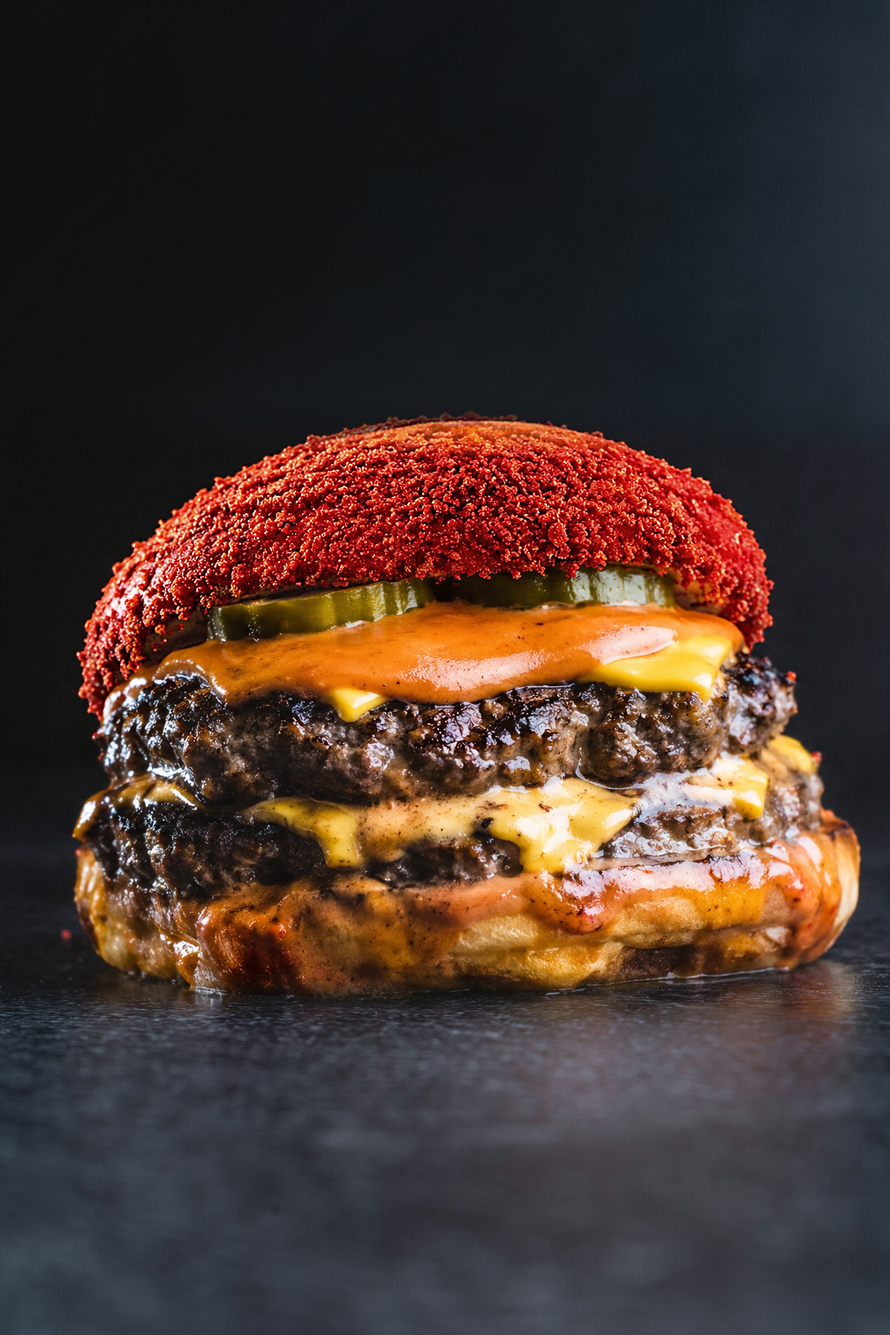
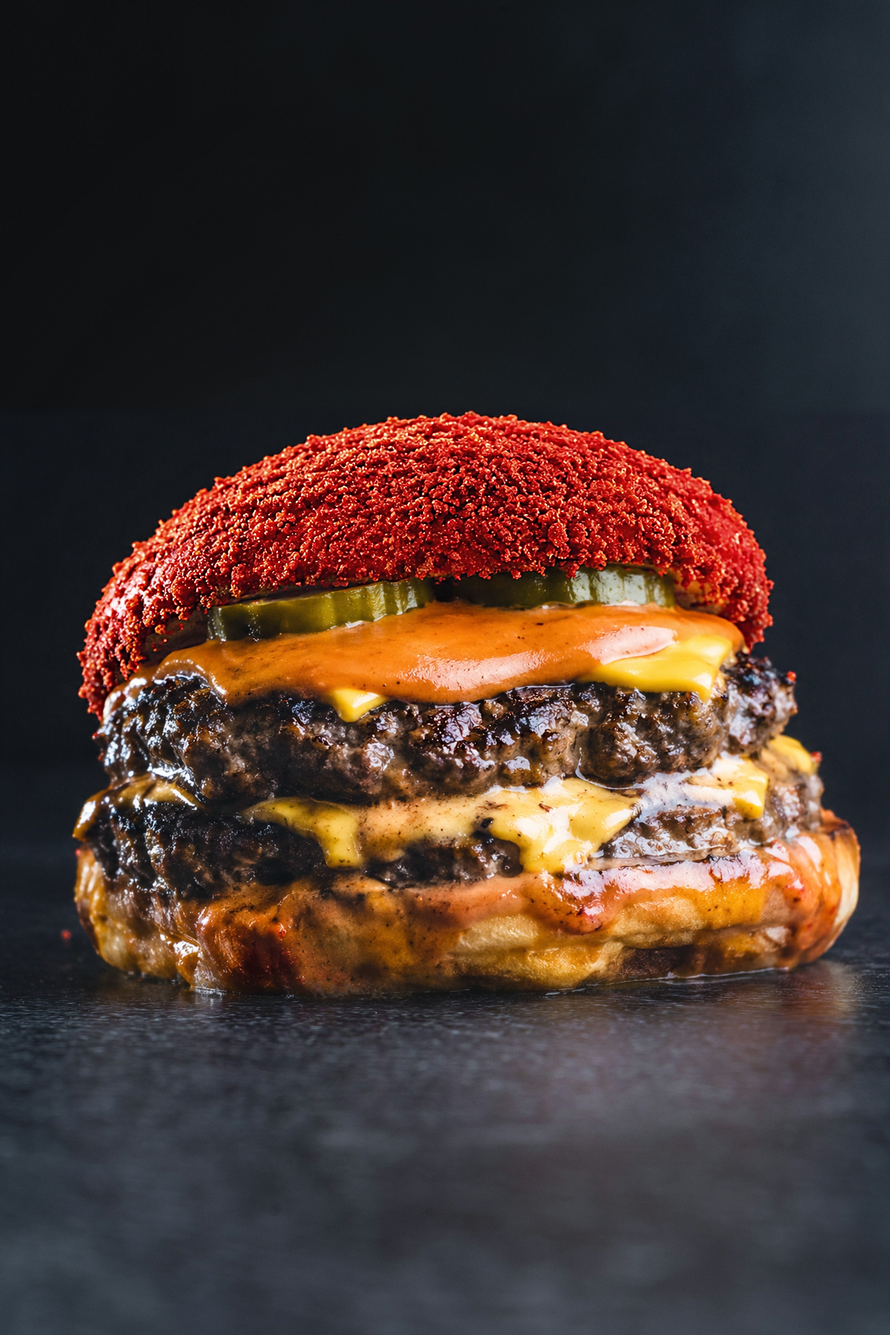
Hero: solid crust top edge (no see-through band)
Claude-Session: https://claude.ai/code/session_017k3QLaGaFRf6Rk7W6QhgSX

Changed region(s): [[0.3427, 0.3103, 0.6854, 0.3413]]

diff --git a/index.html b/index.html
@@ -1506,7 +1506,7 @@ html,body{scrollbar-width:none;-ms-overflow-style:none}html::-webkit-scrollbar,b
 .g-ord .g-h{font-size:clamp(56px,6vw,96px)}
 .g-ord-tx{max-width:560px;justify-self:end;width:100%}
 .g-ord-stage{position:relative;min-height:clamp(600px,48vw,760px);display:grid;place-items:center;isolation:isolate}
-.g-ord-stage::before{content:"";position:absolute;inset:3% 0 3% 2%;z-index:-3;border-radius:28px;background:linear-gradient(180deg,rgba(10,10,11,.55),rgba(10,10,11,.85)),url(photos/hero-burger.jpg?v=mx2) center 45%/cover;filter:saturate(1.1);box-shadow:inset 0 0 0 1px rgba(255,212,0,.12),0 60px 100px -50px rgba(0,0,0,.9)}
+.g-ord-stage::before{content:"";position:absolute;inset:3% 0 3% 2%;z-index:-3;border-radius:28px;background:linear-gradient(180deg,rgba(10,10,11,.55),rgba(10,10,11,.85)),url(photos/hero-burger.jpg?v=mx3) center 45%/cover;filter:saturate(1.1);box-shadow:inset 0 0 0 1px rgba(255,212,0,.12),0 60px 100px -50px rgba(0,0,0,.9)}
 .g-ord-stage .g-ord-band{position:absolute;left:-2%;right:-6%;bottom:22%;height:120px;z-index:0;background:var(--accent);transform:rotate(-8deg);box-shadow:0 30px 60px -20px rgba(255,212,0,.35);overflow:hidden;display:flex;align-items:center}
 .g-ord-band span{flex:none;font-family:var(--disp);font-size:64px;line-height:1;text-transform:uppercase;color:rgba(13,13,14,.9);white-space:nowrap;padding-right:.5em;animation:gmq 26s linear infinite}
 .g-ord-stage::after{content:"";position:absolute;inset:3% 0 3% 2%;z-index:-1;border-radius:28px;background:radial-gradient(50% 45% at 50% 45%,rgba(0,0,0,0),rgba(0,0,0,.45));pointer-events:none}
@@ -2120,7 +2120,7 @@ html,body{scrollbar-width:none;-ms-overflow-style:none}html::-webkit-scrollbar,b
     </div>
     <div class="hstat"><b><span class="dot y"></span><span id="stMain">Hours at Michigan Ave</span></b><span id="stSub">Dearborn, MI</span><a data-dir href="https://www.google.com/maps/dir/?api=1&amp;destination=Prime+Eatery+13530+Michigan+Ave+%23120+Dearborn+MI+48126" target="_blank" rel="noopener">Directions ↗</a></div>
   </div>
-  <div class="hphoto"><img src="photos/hero-burger.jpg?v=mx2" alt="A double smash burger with pickles and melted American" fetchpriority="high" width="2600" height="3900"><canvas class="hsteam" aria-hidden="true"></canvas><video class="hsteam-src" muted loop playsinline preload="none" aria-hidden="true"><source src="photos/ribbon.webm" type="video/webm"><source src="photos/ribbon.mp4" type="video/mp4"></video></div>
+  <div class="hphoto"><img src="photos/hero-burger.jpg?v=mx3" alt="A double smash burger with pickles and melted American" fetchpriority="high" width="2600" height="3900"><canvas class="hsteam" aria-hidden="true"></canvas><video class="hsteam-src" muted loop playsinline preload="none" aria-hidden="true"><source src="photos/ribbon.webm" type="video/webm"><source src="photos/ribbon.mp4" type="video/mp4"></video></div>
   <canvas class="smoke-gl" id="smokeGL" aria-hidden="true"></canvas>
   <div class="wordmark" aria-hidden="true">Prime Eatery</div>
   <div class="callout" id="callout" aria-live="polite"></div>

diff --git a/story.html b/story.html
@@ -2372,7 +2372,7 @@ footer.fx{position:relative;z-index:1}
   <div class="g-wrap wide-x">
     <div class="sp-sig-hd"><p class="g-eb">04 <b>—</b> What we stand for</p><h2 class="g-h">No shortcuts. <em>Ever.</em></h2></div>
     <div class="sp-bento">
-      <div class="sp-b big"><img src="photos/hero-burger.jpg?v=mx2" alt="Loaded Prime Eatery burger" loading="lazy"><div><i>01</i><h3>Made to order</h3><p>Nothing sits under a heat lamp. Patties hit the grill when you order and the fries drop when your ticket prints.</p></div></div>
+      <div class="sp-b big"><img src="photos/hero-burger.jpg?v=mx3" alt="Loaded Prime Eatery burger" loading="lazy"><div><i>01</i><h3>Made to order</h3><p>Nothing sits under a heat lamp. Patties hit the grill when you order and the fries drop when your ticket prints.</p></div></div>
       <div class="sp-b y"><i>02</i><h3>100% halal</h3><p>Every protein, every sauce, from the fryer oil up.</p></div>
       <div class="sp-b"><i>03</i><h3>Sauces in house</h3><p>Prime sauce, ranch and Asian Zing made in our kitchen.</p></div>
       <div class="sp-b ph"><img src="photos/tenders-fries.jpg" alt="Chicken tenders and fries" loading="lazy"><div><i>04</i><h3>Portions that share</h3></div></div>
